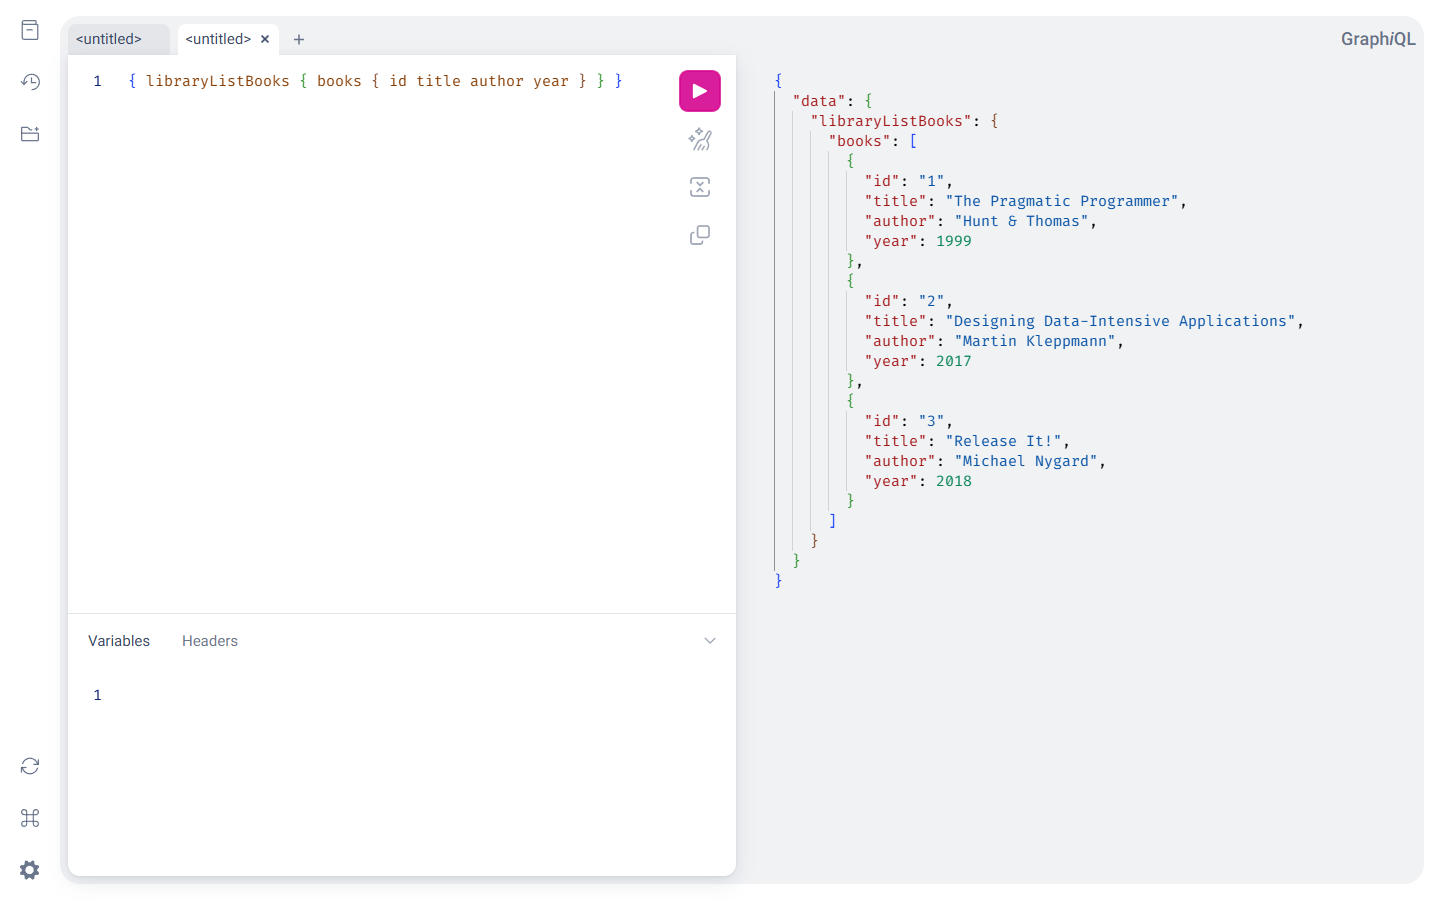
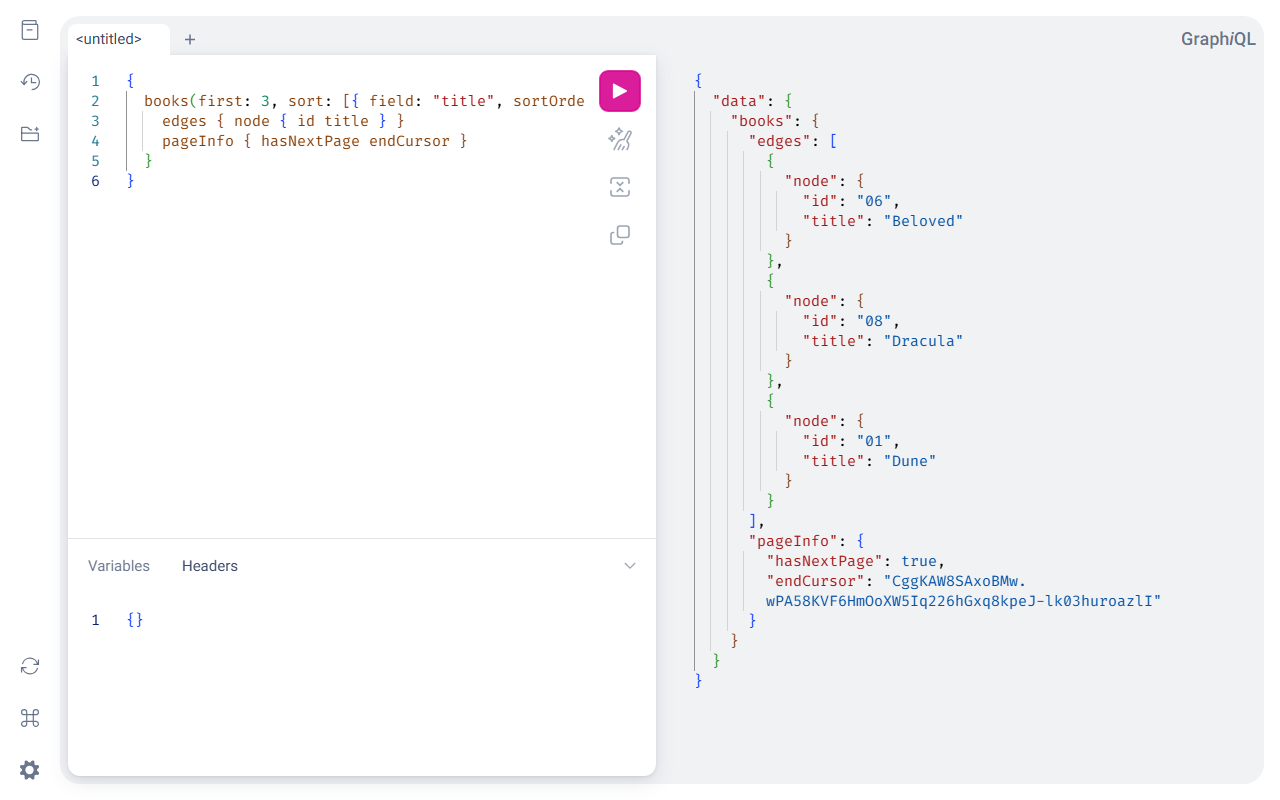
docs: scripted GraphiQL and Swagger UI screenshots from sample-jpa-backend

diff --git a/docs/screenshots/README.md b/docs/screenshots/README.md
@@ -1,0 +1,12 @@
+# Regenerating the UI screenshots
+
+`capture.mjs` takes `docs/images/graphiql.png` and `docs/images/swagger-ui.png` from
+`samples/sample-jpa-backend`, so they only ever show the sample's catalogue (no real data, no tokens).
+GraphiQL loads from esm.sh, so the capture needs internet.
+
+1. `./gradlew publishToMavenLocal`, then in `samples/` run `sample-jpa-backend:bootRun` (port 8181; on a
+   machine with a Gradle mirror add `-I` an init script that puts `mavenLocal()` first).
+2. In a scratch directory: `npm i playwright && npx playwright install chromium`.
+3. Copy `capture.mjs` next to that `node_modules` and run `OUT_DIR=<repo>/docs/images/ node capture.mjs` (`BASE_URL` for another port).
+
+Every shot uses a 1280x800 light-theme viewport. Give each image alt text where it is referenced.

diff --git a/docs/guides/ui.md b/docs/guides/ui.md
@@ -129,13 +129,13 @@ The console links to the gateway's sibling surfaces for the same services:
 `google.api.http` binding becomes an OpenAPI 3 operation with schemas generated from the
 proto messages:
 
-![Swagger UI](../images/swagger-ui.png)
+![Swagger UI showing GET /v1/books of the sample library catalogue, with its pageSize, pageToken and sort parameters](../images/swagger-ui.png)
 
 **GraphQL / GraphiQL** (`/graphiql`, from `shiguchi-graphql-*-starter`) — methods become
 queries/mutations (from `(shiguchi.graphql)` annotations, or convention-named like
 `libraryListBooks` when unannotated):
 
-![GraphiQL](../images/graphiql.png)
+![GraphiQL running a books query with a sort argument and edges/node selection, and the paged result](../images/graphiql.png)
 
 ## Push
 
